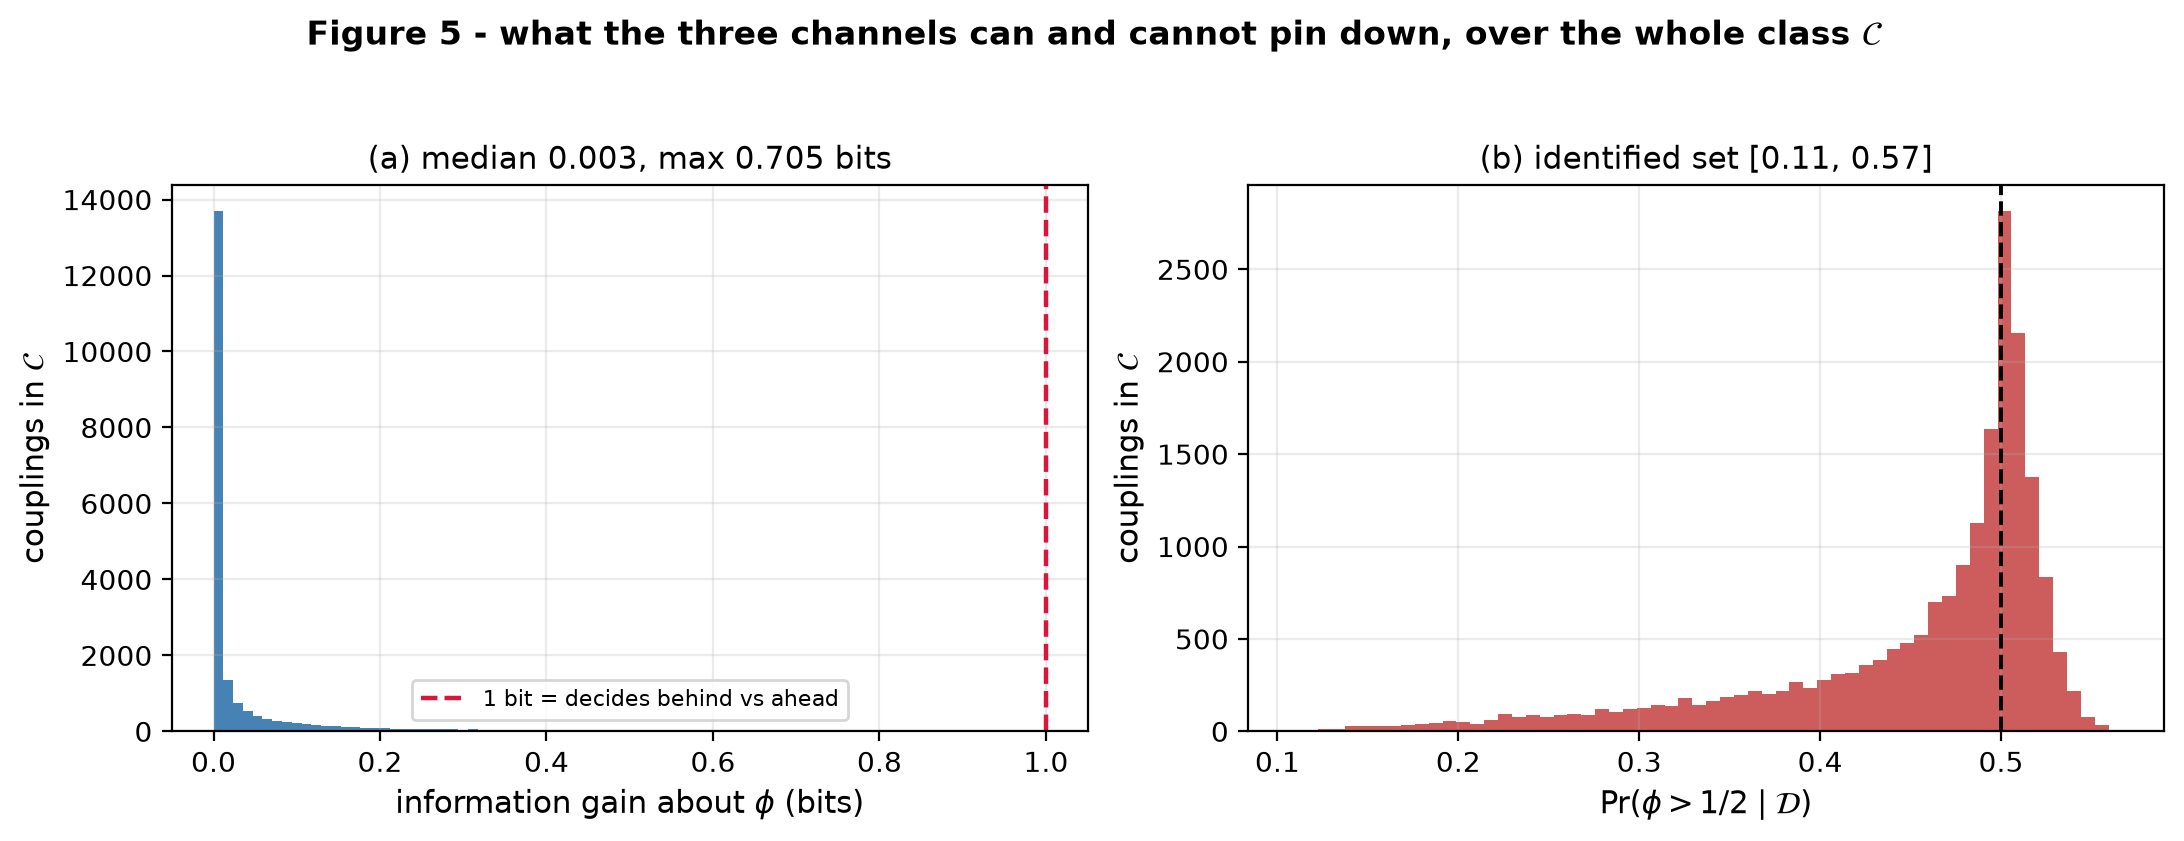
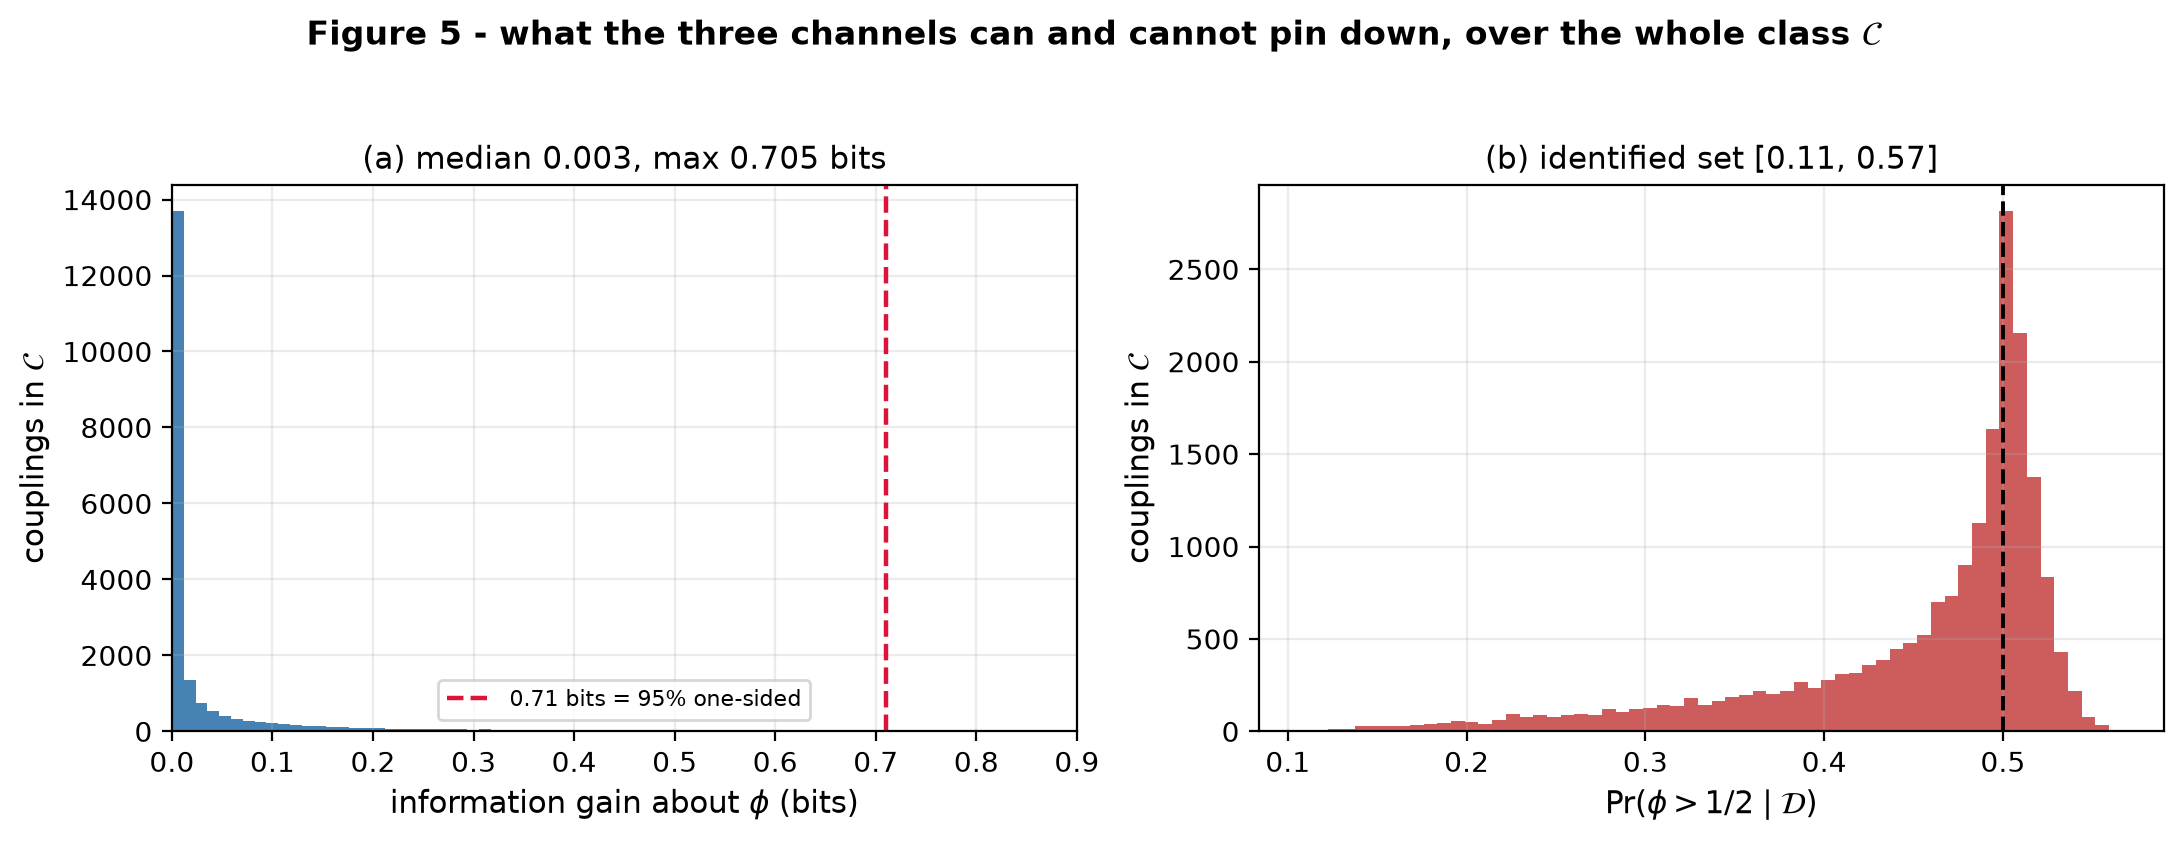
v2.2.0: corrected figure titles; 0.71-bit threshold line in Fig 5; manuscript consistency

diff --git a/filter_experiments.py b/filter_experiments.py
@@ -322,8 +322,9 @@ def table_4(n=20000):
 
     fig, axes = plt.subplots(1, 2, figsize=(11, 4))
     axes[0].hist(env["bits"], bins=60, color="steelblue")
-    axes[0].axvline(1.0, color="crimson", ls="--", lw=1.6,
-                    label="1 bit = decides behind vs ahead")
+    axes[0].axvline(0.71, color="crimson", ls="--", lw=1.6,
+                    label="0.71 bits = 95% one-sided")
+    axes[0].set_xlim(0, 0.9)
     axes[0].set_xlabel("information gain about $\\phi$ (bits)")
     axes[0].set_ylabel("couplings in $\\mathcal{C}$")
     axes[0].set_title(f"(a) median {env['bits_median']:.3f}, "
